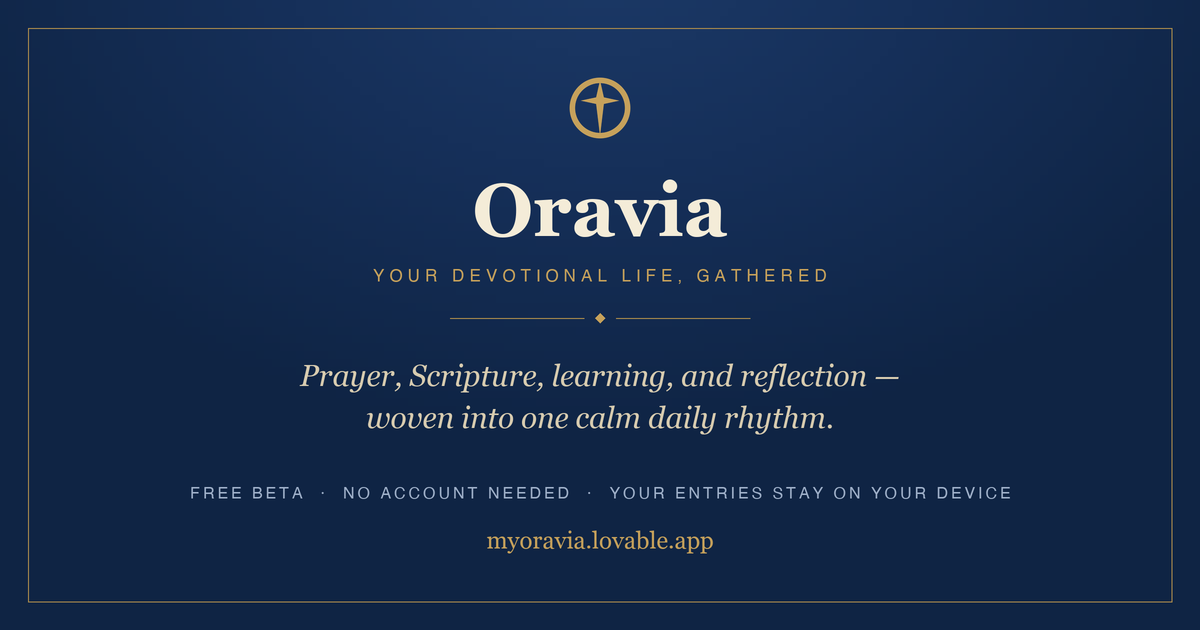
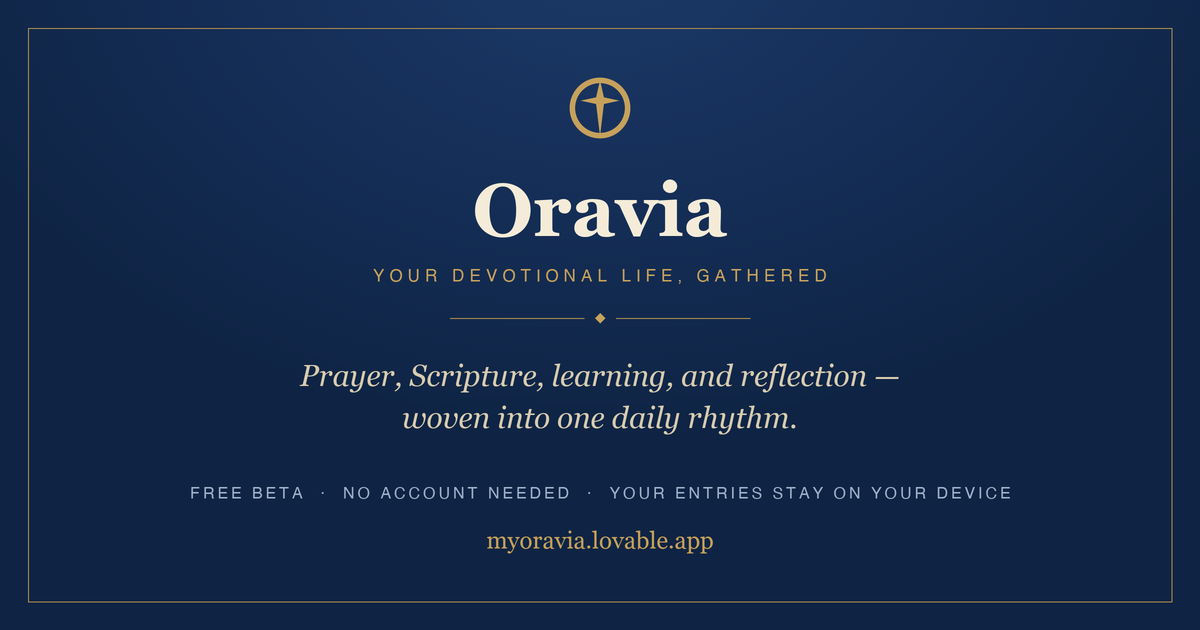
ACTS-158: drop "calm" from the brand copy
JC's call, applied everywhere the word appeared in marketing copy rather than
just on the card -- the share image and the og:description carry the same
sentence, and leaving one "calm" and one not would read as two taglines.

  card + og:description  "...woven into one daily rhythm."
  root description       "A companion for daily prayer, devotions, and reflection."
  home description       "...in one daily companion -- with reflections that connect them."
  manifest description   same as root

Three occurrences deliberately kept, because they are not brand copy:

- seed.ts, the Nativity mystery reflection ("their sense of calm") -- devotional
  content.
- themes.ts, where "calm" is a KEYWORD in the peace-theme matcher; deleting it
  would stop reflections using the word from matching that theme.
- docs/brand/design-system/*.html, internal notes on a typeface sitting "calmer"
  and a hue reading as "calm".

Note the service worker caches /manifest.webmanifest as a shell URL, so an
existing install keeps the old description until the SW updates. Affects the PWA
install card only, not the share preview.

Changed region(s): [[0.3083, 0.6333, 0.6783, 0.6937]]

diff --git a/src/routes/__root.tsx b/src/routes/__root.tsx
@@ -99,7 +99,7 @@ const SITE_ORIGIN = (
 const OG_IMAGE = `${SITE_ORIGIN}/og-cover.png?v=1`;
 
 const SHARE_BLURB =
-  "Prayer, Scripture, learning, and reflection — woven into one calm daily rhythm. " +
+  "Prayer, Scripture, learning, and reflection — woven into one daily rhythm. " +
   "A free beta: no account needed, and your entries stay on your device.";
 
 export const Route = createRootRouteWithContext<{ queryClient: QueryClient }>()({
@@ -115,7 +115,7 @@ export const Route = createRootRouteWithContext<{ queryClient: QueryClient }>()(
       { name: "apple-mobile-web-app-title", content: "Oravia" },
       {
         name: "description",
-        content: "A calm companion for daily prayer, devotions, and reflection.",
+        content: "A companion for daily prayer, devotions, and reflection.",
       },
       { property: "og:title", content: "Oravia — Your devotional life, gathered" },
       { property: "og:description", content: SHARE_BLURB },

diff --git a/src/routes/index.tsx b/src/routes/index.tsx
@@ -72,7 +72,7 @@ export const Route = createFileRoute("/")({
       {
         name: "description",
         content:
-          "Devotion, need, word, and learning in one calm daily companion — with reflections that connect them.",
+          "Devotion, need, word, and learning in one daily companion — with reflections that connect them.",
       },
       // The share headline (ACTS-158). This is the URL people actually send, and this
       // override — not the root's — is what a scraper prints in bold under the card,

diff --git a/docs/brand/make_og.py b/docs/brand/make_og.py
@@ -118,7 +118,7 @@ tracked("YOUR DEVOTIONAL LIFE, GATHERED", hv(17), GOLD, 5, 268 * S)
 rule(318 * S)
 
 center("Prayer, Scripture, learning, and reflection —", gi(30), IVORY_S, 358 * S)
-center("woven into one calm daily rhythm.", gi(30), IVORY_S, 400 * S)
+center("woven into one daily rhythm.", gi(30), IVORY_S, 400 * S)
 
 tracked("FREE BETA  ·  NO ACCOUNT NEEDED  ·  YOUR ENTRIES STAY ON YOUR DEVICE",
         hv(16), IVORY_M, 3, 486 * S)
